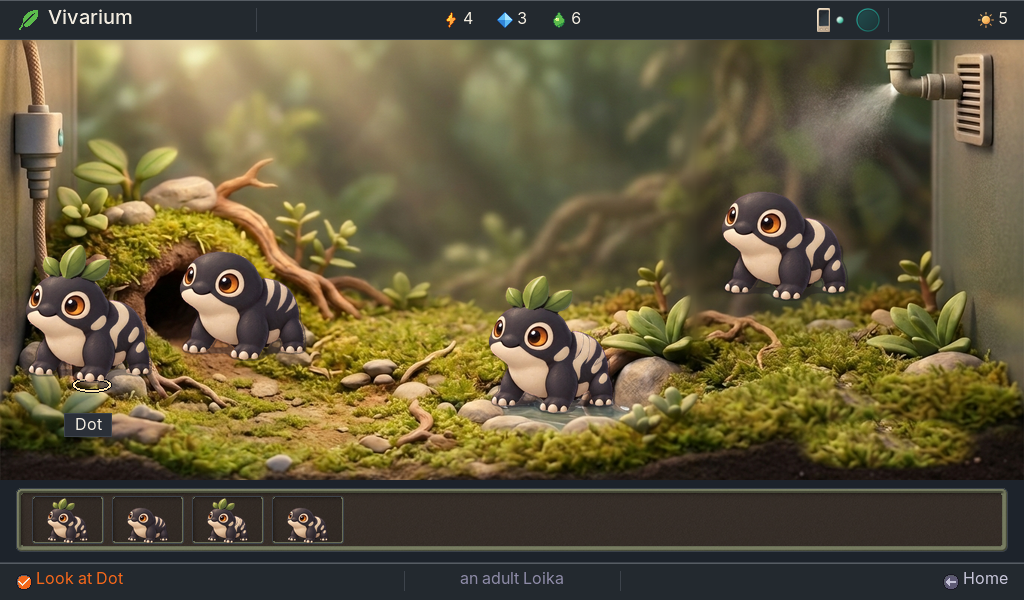
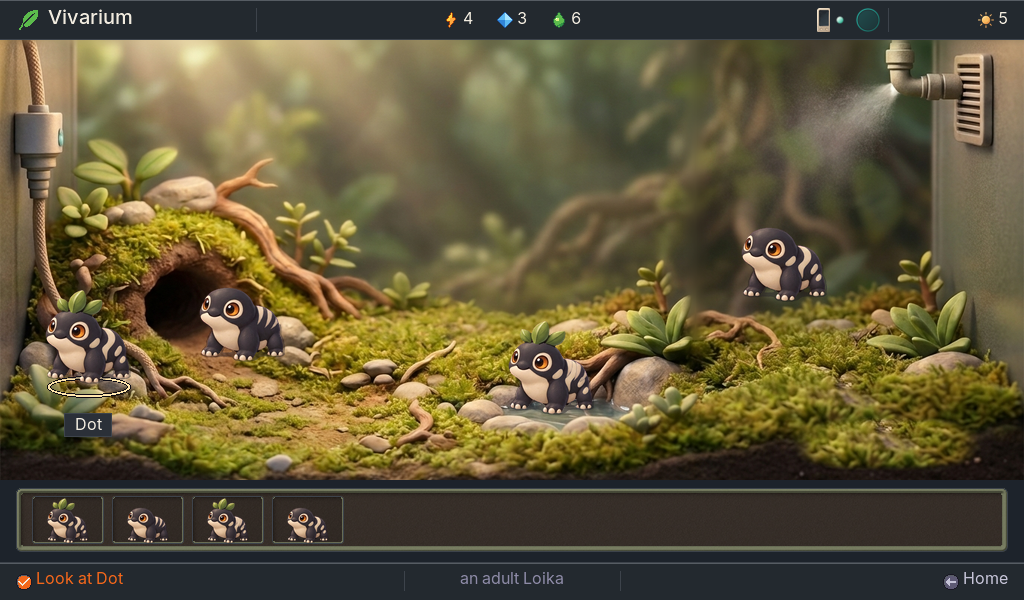
result T-20261016-201: sizes from one config, guard, goldens

Changed region(s): [[0.0, 0.39, 0.3125, 0.66], [0.4688, 0.45, 0.625, 0.69], [0.6875, 0.3, 0.8438, 0.51]]

diff --git a/results/T-20261016-201.md b/results/T-20261016-201.md
@@ -2,7 +2,7 @@
 ticket: T-20261016-201
 status: done
 branch: PacoCotera/miniaturebeasts: build/t-201-drawn-looks (from station-gate 5cc0bbc4)
-head: c5557421
+head: 62df53cb
 ci: not run (suites run locally)
 ---
 ## What changed
@@ -14,25 +14,31 @@ Each mibi is drawn as itself, in the logic process (the headless Node side). The
   - crown: the `floor/S01/overlays` crest overlay, for "leaf crest" (a bare head is the base);
   - markings: `layers/` patches (for patches, and for stripes and patches) and stripes (for stripes, and for stripes and patches), patches first, as `make-window-masters.py` does.
   - Adults at 304x312, 144x152 and 48x48; juveniles at 304x312, 104x112 and 48x48. Colour is the charcoal base until T-20261016-203's ramps.
-- `views/home-props.mjs` `mibiPictureOf` and `mibiReq` name a layered mibi's picture by its variant (`mibi:S01~<hash>:<juvenile|adult>:WxH[:light]`, the looks it has layers for) and carry its looks. Home, the Vivarium (whole and tiles), the Habitat up close and the Incubator go through it. `pictures.mjs` composes the picture once and caches it by id; a light grades it as it grades a master.
+- **Size is composed in the logic, from one config.** `ui/specs/station/stand-sizes.json` gives each view's figure height, adult and juvenile (the art director's table): Home window 54/40, Vivarium full screen and Idle 92/68, Habitat up close 150/110; tiles and the Companion are unlisted, so unchanged. The art is cut once at 304x312; `composeStand` lays the layers on it, then fits the figure down once (Lanczos, premultiplied) into the view's box, bottom-centred in the picture. The picture is the slot's own size, since the face places a picture 1:1 and refuses any other; the figure stands on its foot with transparent around it. The figure box is in the variant, so another figure size is another picture id. The size is never hard-coded in a view: `mibiPictureOf`/`mibiReq` take a `view` (home, vivarium, idle, habitat).
+- `views/home-props.mjs` `mibiPictureOf` and `mibiReq` name a layered mibi's picture by its variant (`mibi:S01~<hash>:<juvenile|adult>:WxH[:light]`, the looks it has layers for and the figure box) and carry its looks. Home, the Vivarium (whole and tiles), Idle, the Habitat up close and the Incubator go through it. `pictures.mjs` composes the picture once and caches it by id; a light grades it as it grades a master.
 - `ui/asset-policy.mjs`: LAYERED family = painted, for juvenile and adult (a draw policy, not a sign-off).
 - Placeholder register entry `stand-layers`: the 16 eye-ring overlays (thin, wide) of `layers/register.json` stay stand-ins (carried in the index as `standIns`); those looks draw the base's "between" rings.
-- The page loads layers and looks (`masters.mjs` `loadStandLayers`, `main.mjs`); Node loads them with `tools/stand-layers-fs.mjs`.
+- The page loads layers, looks and sizes (`masters.mjs` `loadStandLayers`, `main.mjs`); Node loads them with `tools/stand-layers-fs.mjs`.
 
-## Tests
-- `tests/drawn-looks.test.mjs`: 17 tests (read look; unread common look; hidden copy never shows; four pods give four different stands by id and pixels on Home; same looks give one stand; a child read later redraws; the juvenile is layered; the curl and other species unchanged; light grade; policy for juvenile and adult; register).
-- Station 469 pass, 0 fail. UI 81 pass. Face 483 of 506, with the same 23 Create failures on origin/station-gate in this environment. `place-masters --check` 906 placed, 0 problems. Guard ok. `make-stand-looks --check` ok.
+## Tests and checks (head 62df53cb, merged with the current station-gate)
+- `tests/drawn-looks.test.mjs`: 18 tests (read look; unread common look; hidden copy never shows; four pods give four different stands on Home; same looks give one stand; a child read later redraws; the juvenile is layered; the curl and other species unchanged; light grade; policy; register; figure heights 54/40, 92/68 and 150/110 from the one config).
+- Station 470 pass, 0 fail. UI 81 pass. Face 483 of 506; the same 23 Create failures occur on origin/station-gate here.
+- `node prototypes/face/tools/guard.mjs`: `guard ok` (75 removed paths, 281 files read, 0 failures). A first attempt tripped on a constant named CANVAS, renamed.
+- `node .github/public-guard/guard.mjs --base origin/station-gate`: `public guard ok` (the internal section ref in pictures.mjs is removed).
+- `place-masters --check`: 906 placed, 0 problems. `make-stand-looks --check`: ok.
+- `goldens.mjs --check`: home, cargo, habitat, vivarium, library, bench and idle all `goldens match`. pods (8), create (16) and incubator (14) fail, and fail on origin/station-gate in this environment too (8, 16 and 17): drift in the local Chromium, not this change.
 
-## Goldens regenerated (72 PNGs, 73 states)
-The states whose hash moved between station-gate and this branch: the habitat-*, home-*, idle-* and vivarium-* states that show a Loika (adult or juvenile). The exact list is the PNGs in the commit. Caveat: this environment's Chromium already disagreed with 22 Home hashes on station-gate itself, so CI's `goldens.mjs --check` is the arbiter.
+## Goldens regenerated (76 PNGs)
+The states whose hash moved between station-gate and this branch: the habitat, home, idle and vivarium states that show a Loika, now including the four `habitat-moment-S01` (0, 450, 900, 1350), plus three Incubator states. The exact list is the PNGs in the branch's golden folders.
 
 ## Proof
-`results/T-20261016-201/vivarium-four-loikas.png`: a 1x Vivarium with four different Loikas (capture state `four-loikas` in `face/tools/vivarium-states.mjs`): patches with the crest; stripes on a bare head; stripes and patches with the crest; patches on a bare head. The four residents are spread by id, so none overlaps another.
+`results/T-20261016-201/vivarium-four-loikas.png`: the Vivarium at full screen, four different Loikas at 92 px (patches with the crest; stripes on a bare head; stripes and patches with the crest; patches on a bare head), no overlaps, `refused` 0 (capture state `four-loikas`, ids spread so the walkers start apart).
 
 ## Art director's note 4
-- The overlap in the first proof was the capture's own placement: the four ids put the residents' start seeds close. The new capture uses spread ids.
-- The far-right resident's missing contact shadow is not the stand. The stand's soft shadow is baked into the signed base key (alpha up to 119 in its last rows) and is carried 1:1; the far-right resident in the capture is mid-hop above the ground, and a still resident has no separate shadow. It is the Vivarium's walk and shadow placement, out of scope here.
+- The overlap in the first proof was the capture's placement (ids close together); fixed in the capture.
+- The contact shadow is the signed base key's own soft baked shadow, carried at scale; the stand adds none. A resident caught mid-hop is above its shadow. That is the Vivarium's walk and shadow placement, out of scope.
+- The name tag and focus ring still size from the slot (144x152), so they sit as for the old 144 px picture; that is the layout's, to follow with the table.
 
 ## Not done, for decisions
-- The sleeper's curl (96x88) and the moving-set atlases (named by the look slot `species`) are unlayered: the curl key needs a derive rule at 96x88, and the atlases need the layer bake. Other species have no layers. Create's founder is unchanged.
+- The sleeper's curl (96x88) and the moving-set atlases are unlayered: the curl key needs a derive rule at 96x88, and the atlases need the layer bake. Other species have no layers. Create's founder is unchanged. Panel, Cargo and dock views from the table are not wired (no layered view asks for them yet); add them to `views` when they do.
 - Colour is T-20261016-203's; the ring overlays are hand work.
